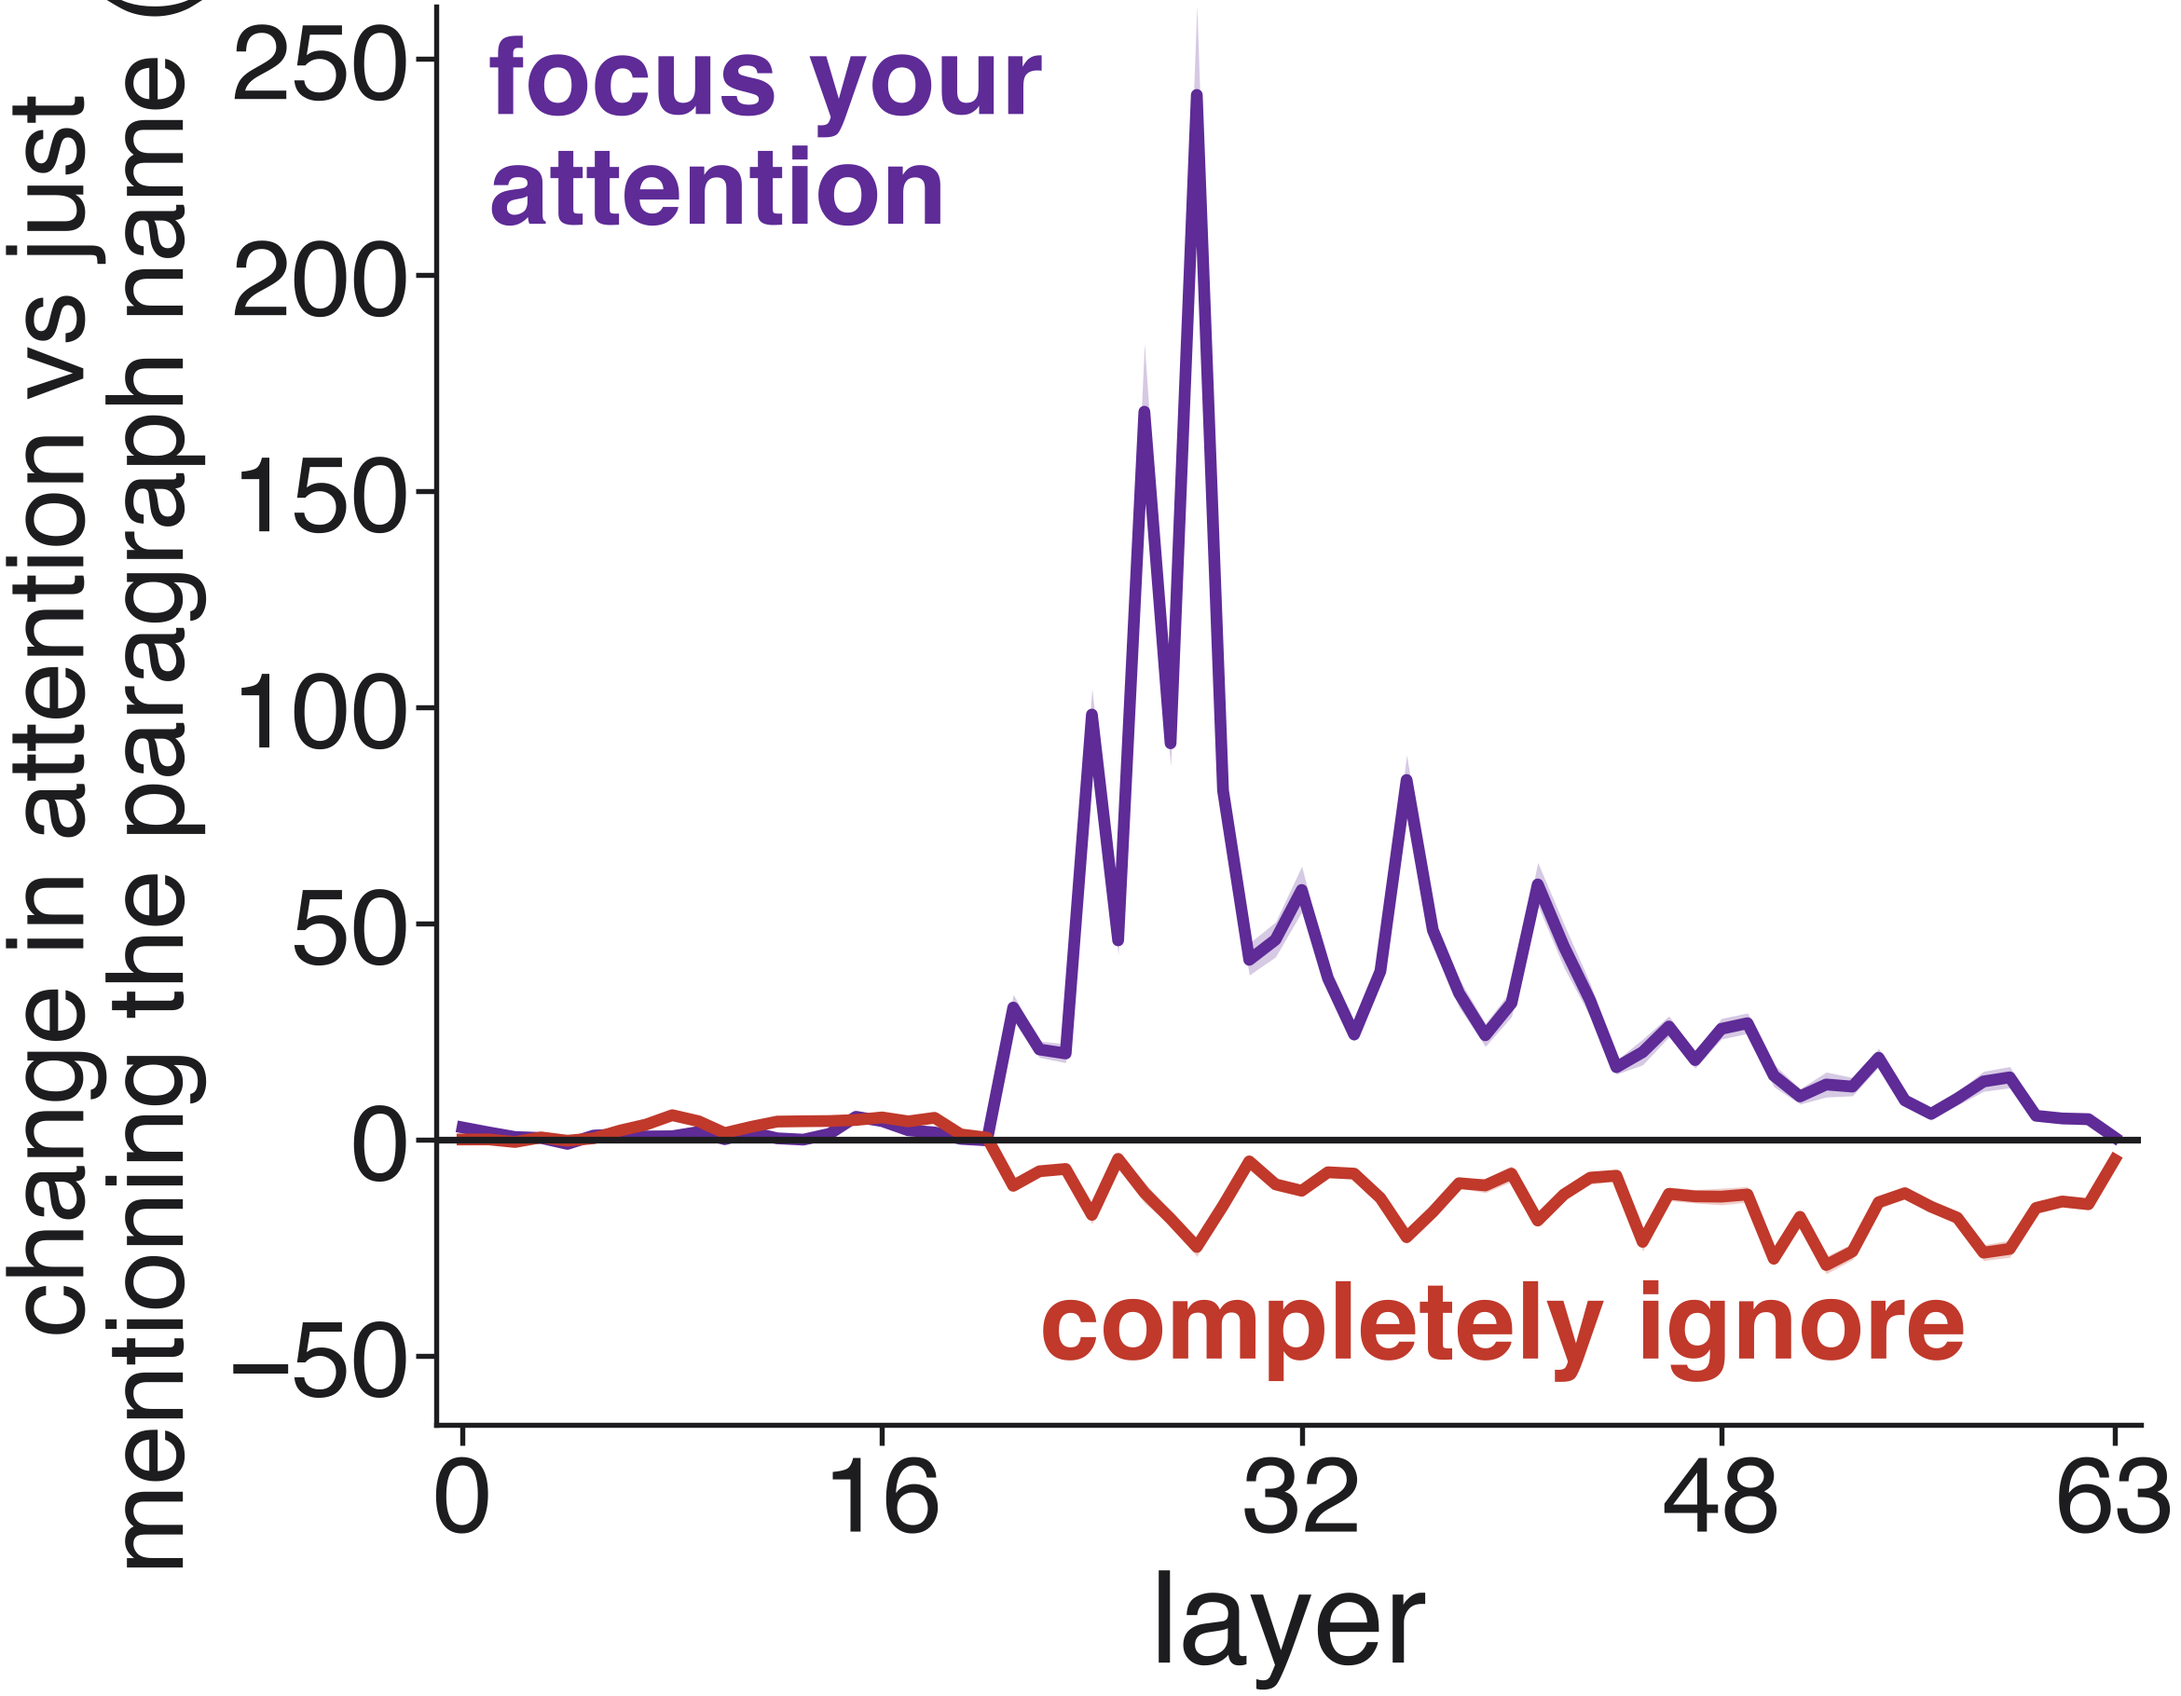
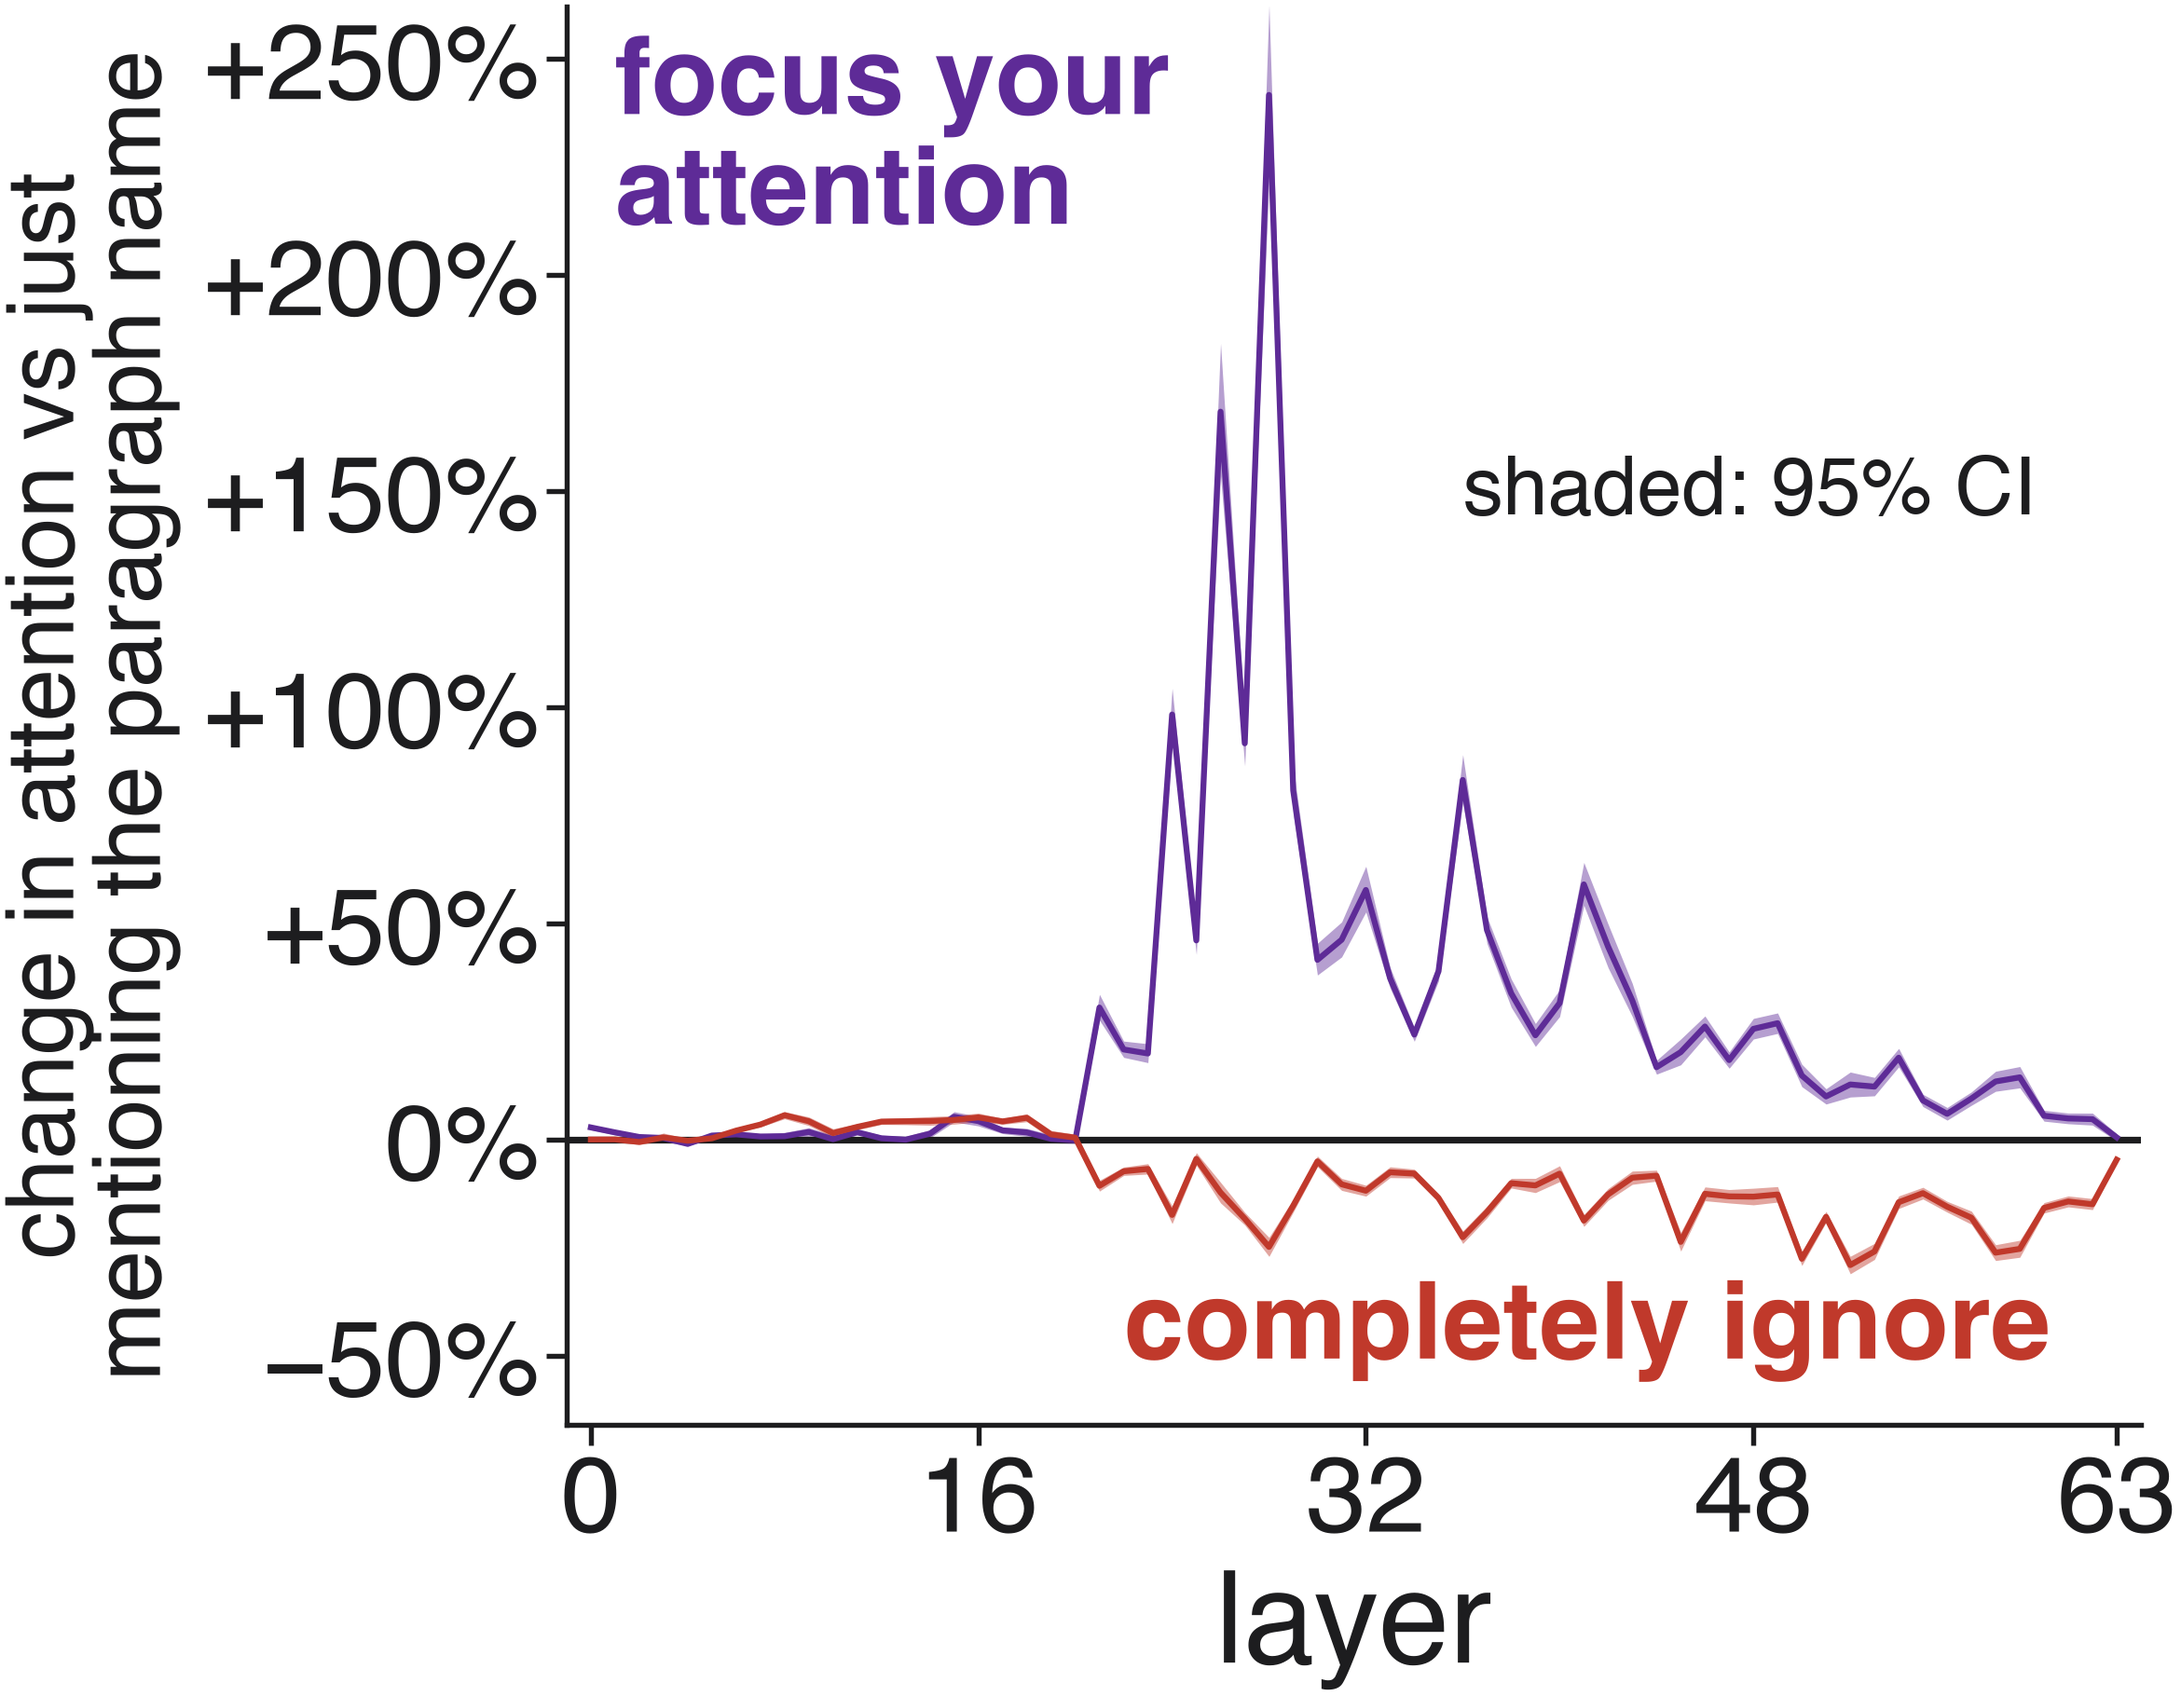
Layers: % ticks, visible CI bands, label not cut

diff --git a/figures/layers3.py b/figures/layers3.py
@@ -21,17 +21,18 @@ plt.rcParams.update({"font.family": "Helvetica", "text.color": INK, "axes.labelc
 fig, a = plt.subplots(figsize=(18, 14))
 l = np.arange(NL)
 for c, col, lab in [("3_focus", PURPLE, "focus your attention"), ("9_completely_ignore", RED, "completely ignore")]:
-    o = out[c]; a.fill_between(l, o["lo"], o["hi"], color=col, alpha=0.25, lw=0); a.plot(l, o["mean"], color=col, lw=7)
+    o = out[c]; a.plot(l, o["mean"], color=col, lw=3.5, zorder=3); a.fill_between(l, o["lo"], o["hi"], color=col, alpha=0.45, lw=0, zorder=2)
     o["lab"] = lab
 a.axhline(0, color=INK, lw=4)
 for s_ in ["top", "right"]: a.spines[s_].set_visible(False)
 a.spines["left"].set_linewidth(3); a.spines["bottom"].set_linewidth(3); a.tick_params(width=3, length=12, labelsize=64)
 a.set_xlim(-1, 64); a.set_xticks([0, 16, 32, 48, 63]); a.set_xlabel("layer", fontsize=76, labelpad=10)
-a.set_ylabel("change in attention vs just\nmentioning the paragraph name (%)", fontsize=64, labelpad=14, linespacing=1.0)
-yt = [-50, 0, 50, 100, 150, 200, 250]; a.set_yticks(yt); a.set_yticklabels([f"{v}".replace("-", "\u2212") for v in yt]); a.set_ylim(-66, 262)
+a.set_ylabel("change in attention vs just\nmentioning the paragraph name", fontsize=56, labelpad=14, linespacing=1.0)
+yt = [-50, 0, 50, 100, 150, 200, 250]; a.set_yticks(yt); a.set_yticklabels([(f"{v:+d}%" if v else "0%").replace("-", "\u2212") for v in yt]); a.set_ylim(-66, 262)
 mf = np.array(out["3_focus"]["mean"]); i = int(np.argmax(mf))
 a.text(1, 255, "focus your\nattention", fontsize=64, color=PURPLE, fontweight="bold", va="top", linespacing=1.0)
 mi = np.array(out["9_completely_ignore"]["mean"])
+a.text(36, 150, "shaded: 95% CI", fontsize=48, color=INK, va="center")
 a.text(22, -32, "completely ignore", fontsize=64, color=RED, fontweight="bold", va="top")
 fig.tight_layout(pad=0.4); fig.savefig(os.path.join(HERE, "layers.png"), dpi=130, facecolor="white"); fig.savefig(os.path.join(HERE, "layers.jpg"), dpi=130, facecolor="white")
 for c in out: m = np.array(out[c]["mean"]); print(c, "max %+.1f @%d  min %+.1f @%d  band21-53 mean-of-layer-means %+.1f" % (m.max(), m.argmax(), m.min(), m.argmin(), m[21:54].mean()))
